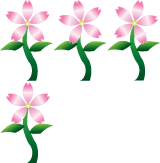
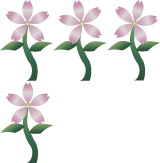
Sprint 3: Flowers Added

Changed region(s): [[0.0, 0.0, 0.3125, 1.0], [0.6875, 0.0, 1.0, 0.4908], [0.3438, 0.0, 0.6562, 0.5215]]

diff --git a/finalPhaserGame/group33game/js/main.js b/finalPhaserGame/group33game/js/main.js
@@ -222,6 +222,9 @@ MainMenu.prototype = {
 		game.load.image('wheel', 'assets/img/WheelPart.png')
 		game.load.image('betaArrow', 'assets/img/betaArrow.png');
 		game.load.image('endPetal', 'assets/img/endPetal.png');
+		game.load.image('seed', 'assets/img/FlowerBud.png');
+		game.load.image('sprout', 'assets/img/FlowerYouth.png');
+		game.load.atlas('flowers', 'assets/img/flowers.png', 'js/json/flowers.json');
 		game.load.image('endParticle', 'assets/img/endParticle.png');
 		game.load.image('smokeCloud', 'assets/img/chimneySmoke.png');
 		game.load.image('deathPetal', 'assets/img/deathPetal.png');
@@ -615,6 +618,8 @@ Play.prototype = {
 			deathHouse.body.onBeginContact.add(killPlayer, this);
 		}
 
+		
+
 		//create bridges
 		if(this.level > 0 && this.level <= 3){ //if between levels 1 and 3, create bridge 1
 			var bridge1 = game.add.sprite(265, 725, 'Bridge1'); //leftmost bridge
@@ -696,6 +701,35 @@ Play.prototype = {
 
 		
 		platformSpeed = 120;
+
+		//set up flowers
+		if(this.level <= 3){
+			game.add.sprite(100, 260, 'seed');
+			game.add.sprite(160, 260, 'seed');
+			game.add.sprite(220, 260, 'seed');
+
+		}else if(this.level == 4 || this.level == 5 || this.level == 10){
+			game.add.sprite(100, 228, 'sprout');
+			game.add.sprite(160, 228, 'sprout');
+			game.add.sprite(220, 228, 'sprout');
+
+		}else if(this.level == 6 || this.level == 7 || this.level == 8){
+			var flowers1 = game.add.sprite(80, 195, 'flowers', 0);
+			var flowers2 = game.add.sprite(140, 195, 'flowers', 0);
+			var flowers3 = game.add.sprite(200, 195, 'flowers', 0);
+			flowers1.animations.add('bounce', [0,1,2,3], 3, true);
+			flowers2.animations.add('bounce', [0,1,2,3], 3, true);
+			flowers3.animations.add('bounce', [0,1,2,3], 3, true);
+			flowers1.animations.play('bounce');
+			flowers2.animations.play('bounce');
+			flowers3.animations.play('bounce');
+
+		}else if(this.level == 9){
+			game.add.sprite(100, 510, 'seed');
+			game.add.sprite(160, 510, 'seed');
+			game.add.sprite(220, 510, 'seed');
+		}
+
 
 		//LEVEL SPECIFIC TOOLS
 
@@ -1368,11 +1402,11 @@ Play.prototype = {
 		waterfallCurrentUpward = upward;
 		if(waterFrozen == false && upward == 0){
 			waterfallPlatform.body.velocity.y = -1 * platformSpeed; //go upward
-			wheel.angle += 1
+			wheel.angle += platformSpeed/100;
 			//wheel.body.velocity.y = -1 * platformSpeed; //go upward
 		}else if(waterFrozen == false && upward == 1){
 			waterfallPlatform.body.velocity.y = platformSpeed; //go downward
-			wheel.angle -= 1
+			wheel.angle -= platformSpeed/100;
 			//wheel.body.velocity.y = platformSpeed; //go upward
 		}else if(waterFrozen == true){
 			waterfallPlatform.body.velocity.y = 0;
